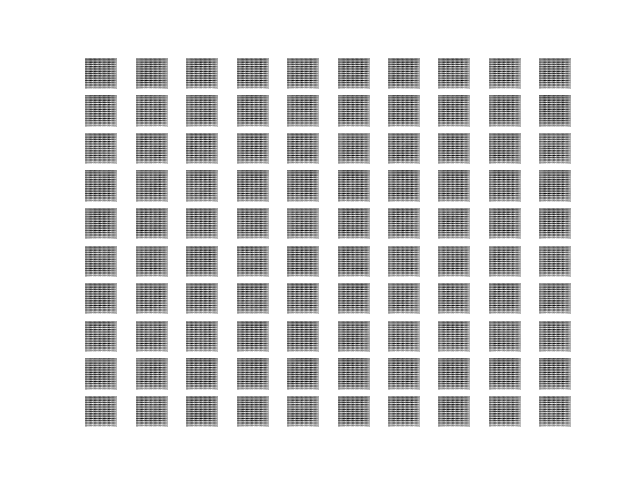
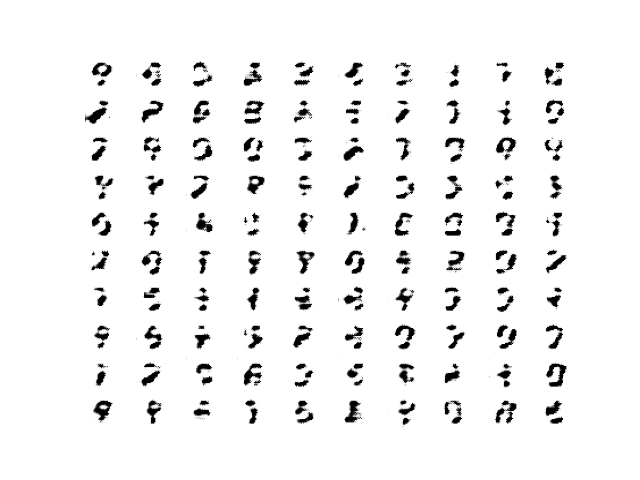
plots

diff --git a/Lab8/Exercises/ex_2.py b/Lab8/Exercises/ex_2.py
@@ -196,7 +196,7 @@ if(os.path.isfile('gan_weights.h5')):
 # load image data
 dataset = load_real_samples()
 #number of epochs
-n_epochs = 1
+n_epochs = 2
 #batch size
 batch_size = 256
 # train model
